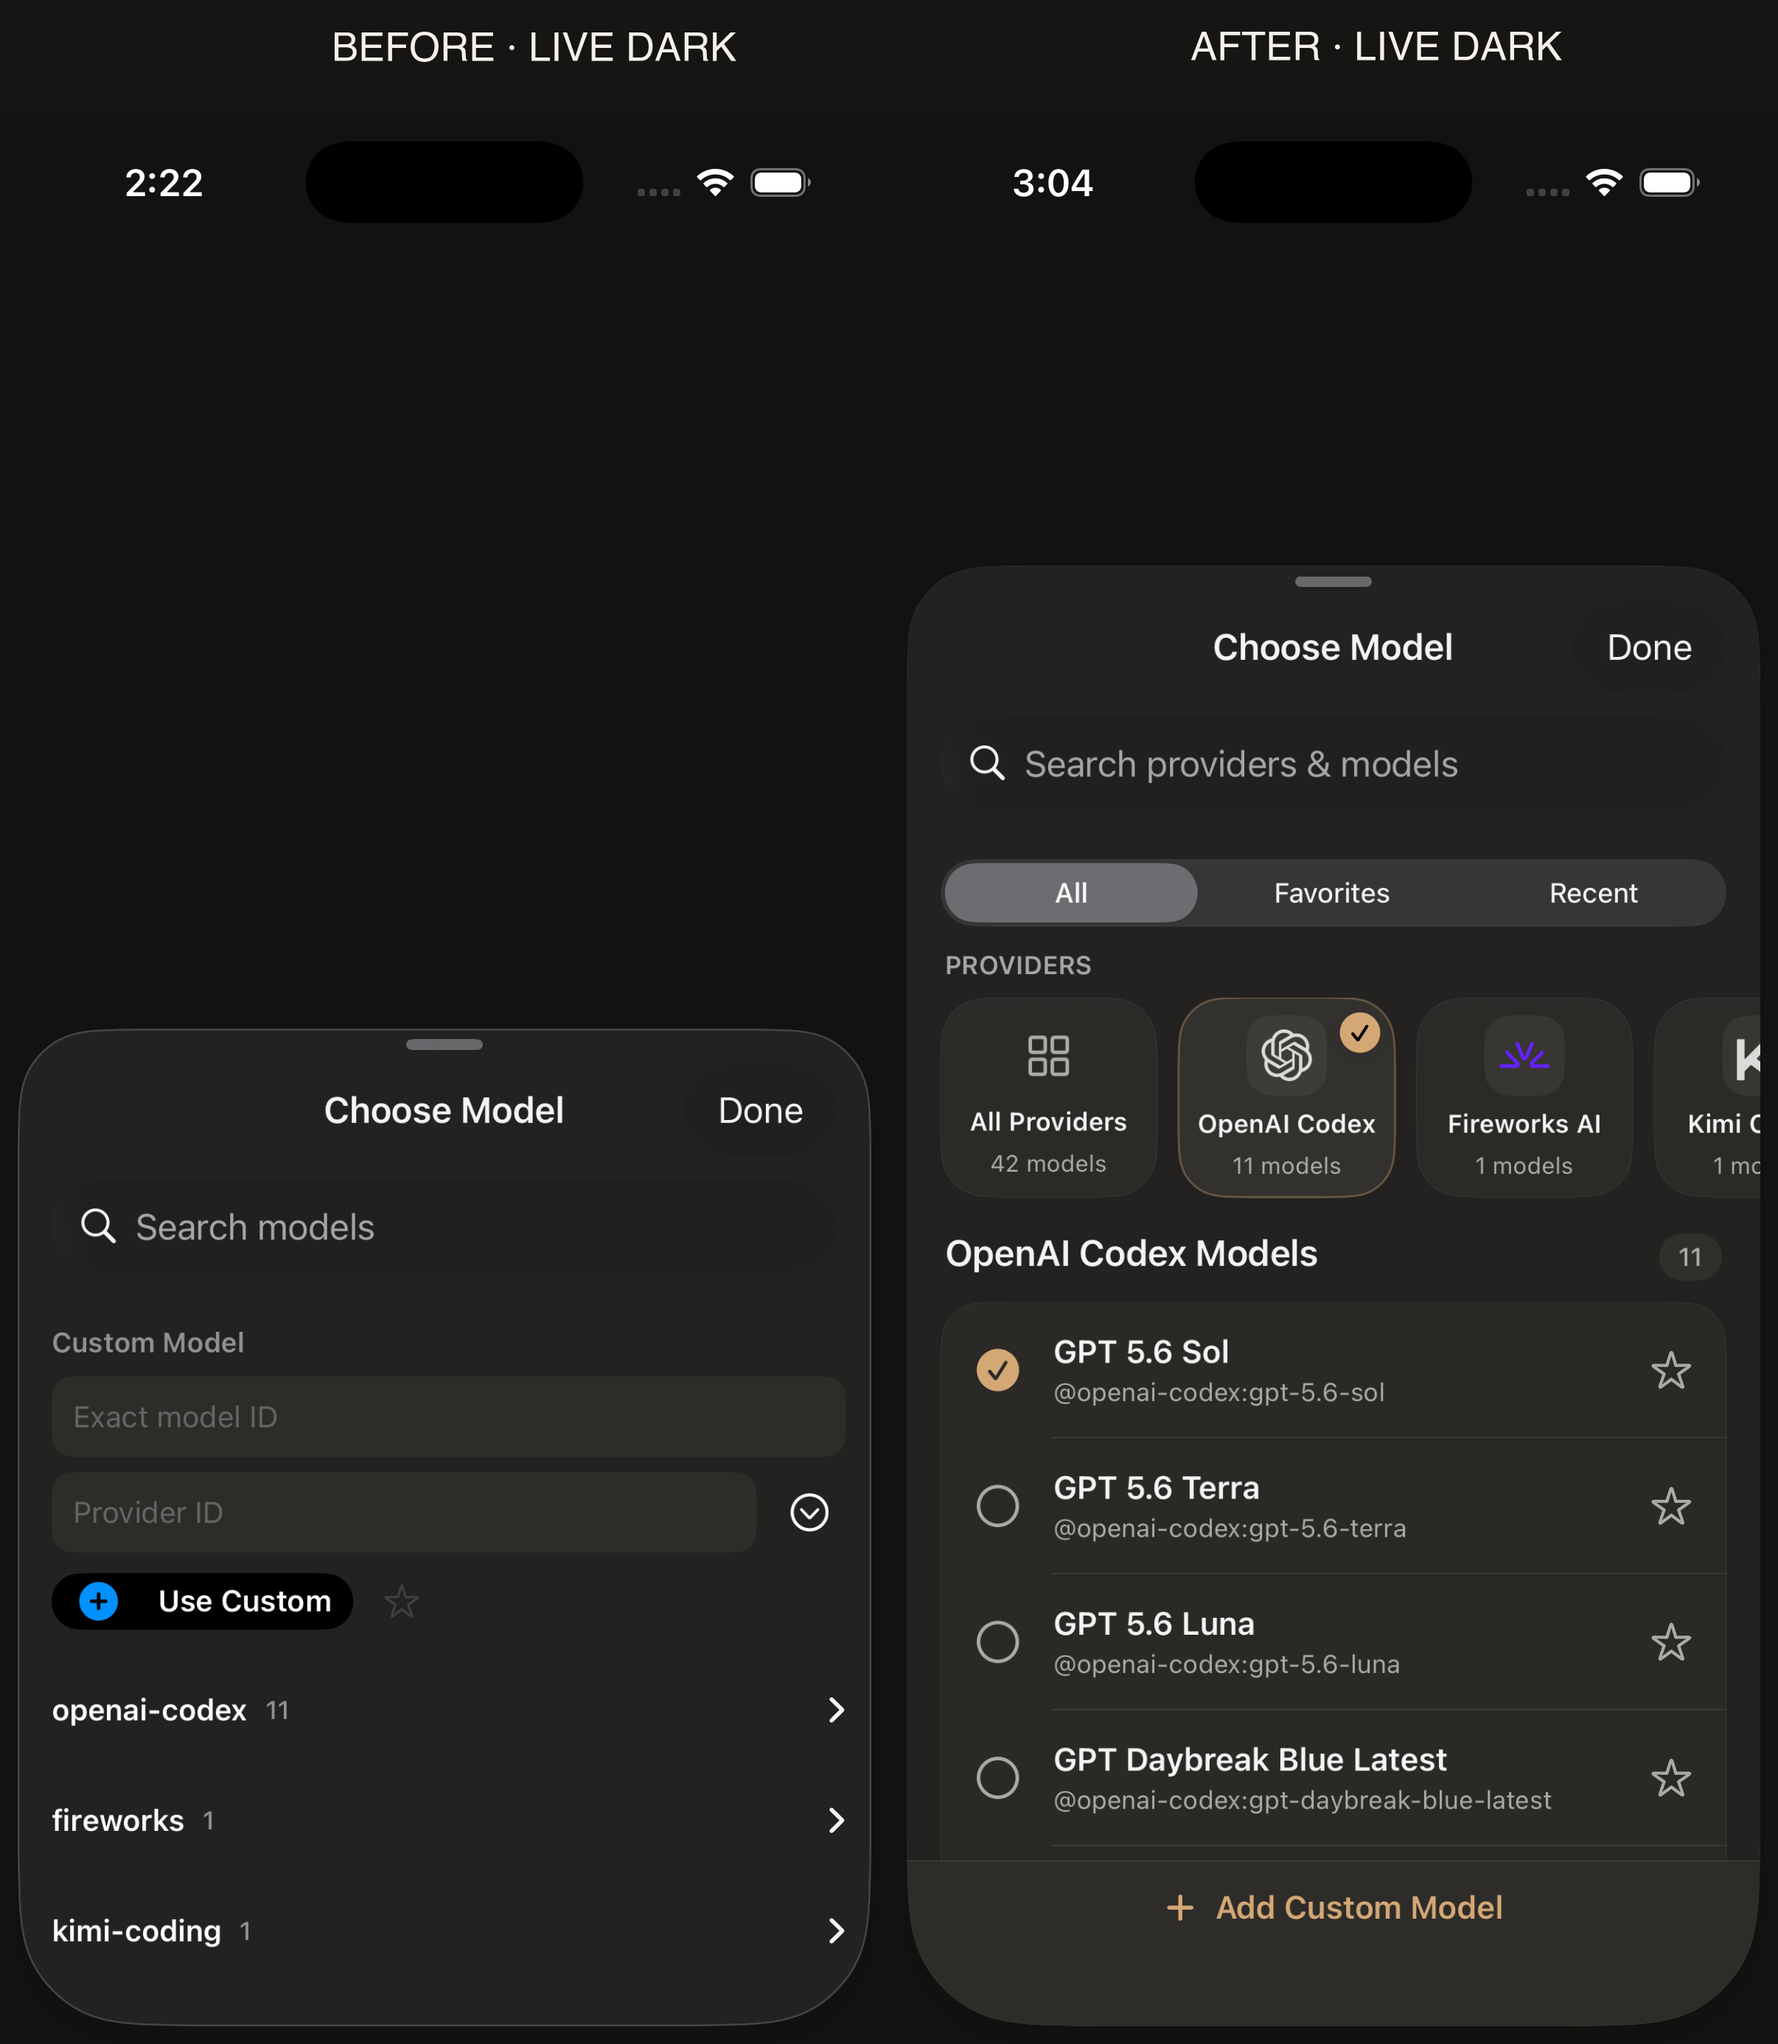
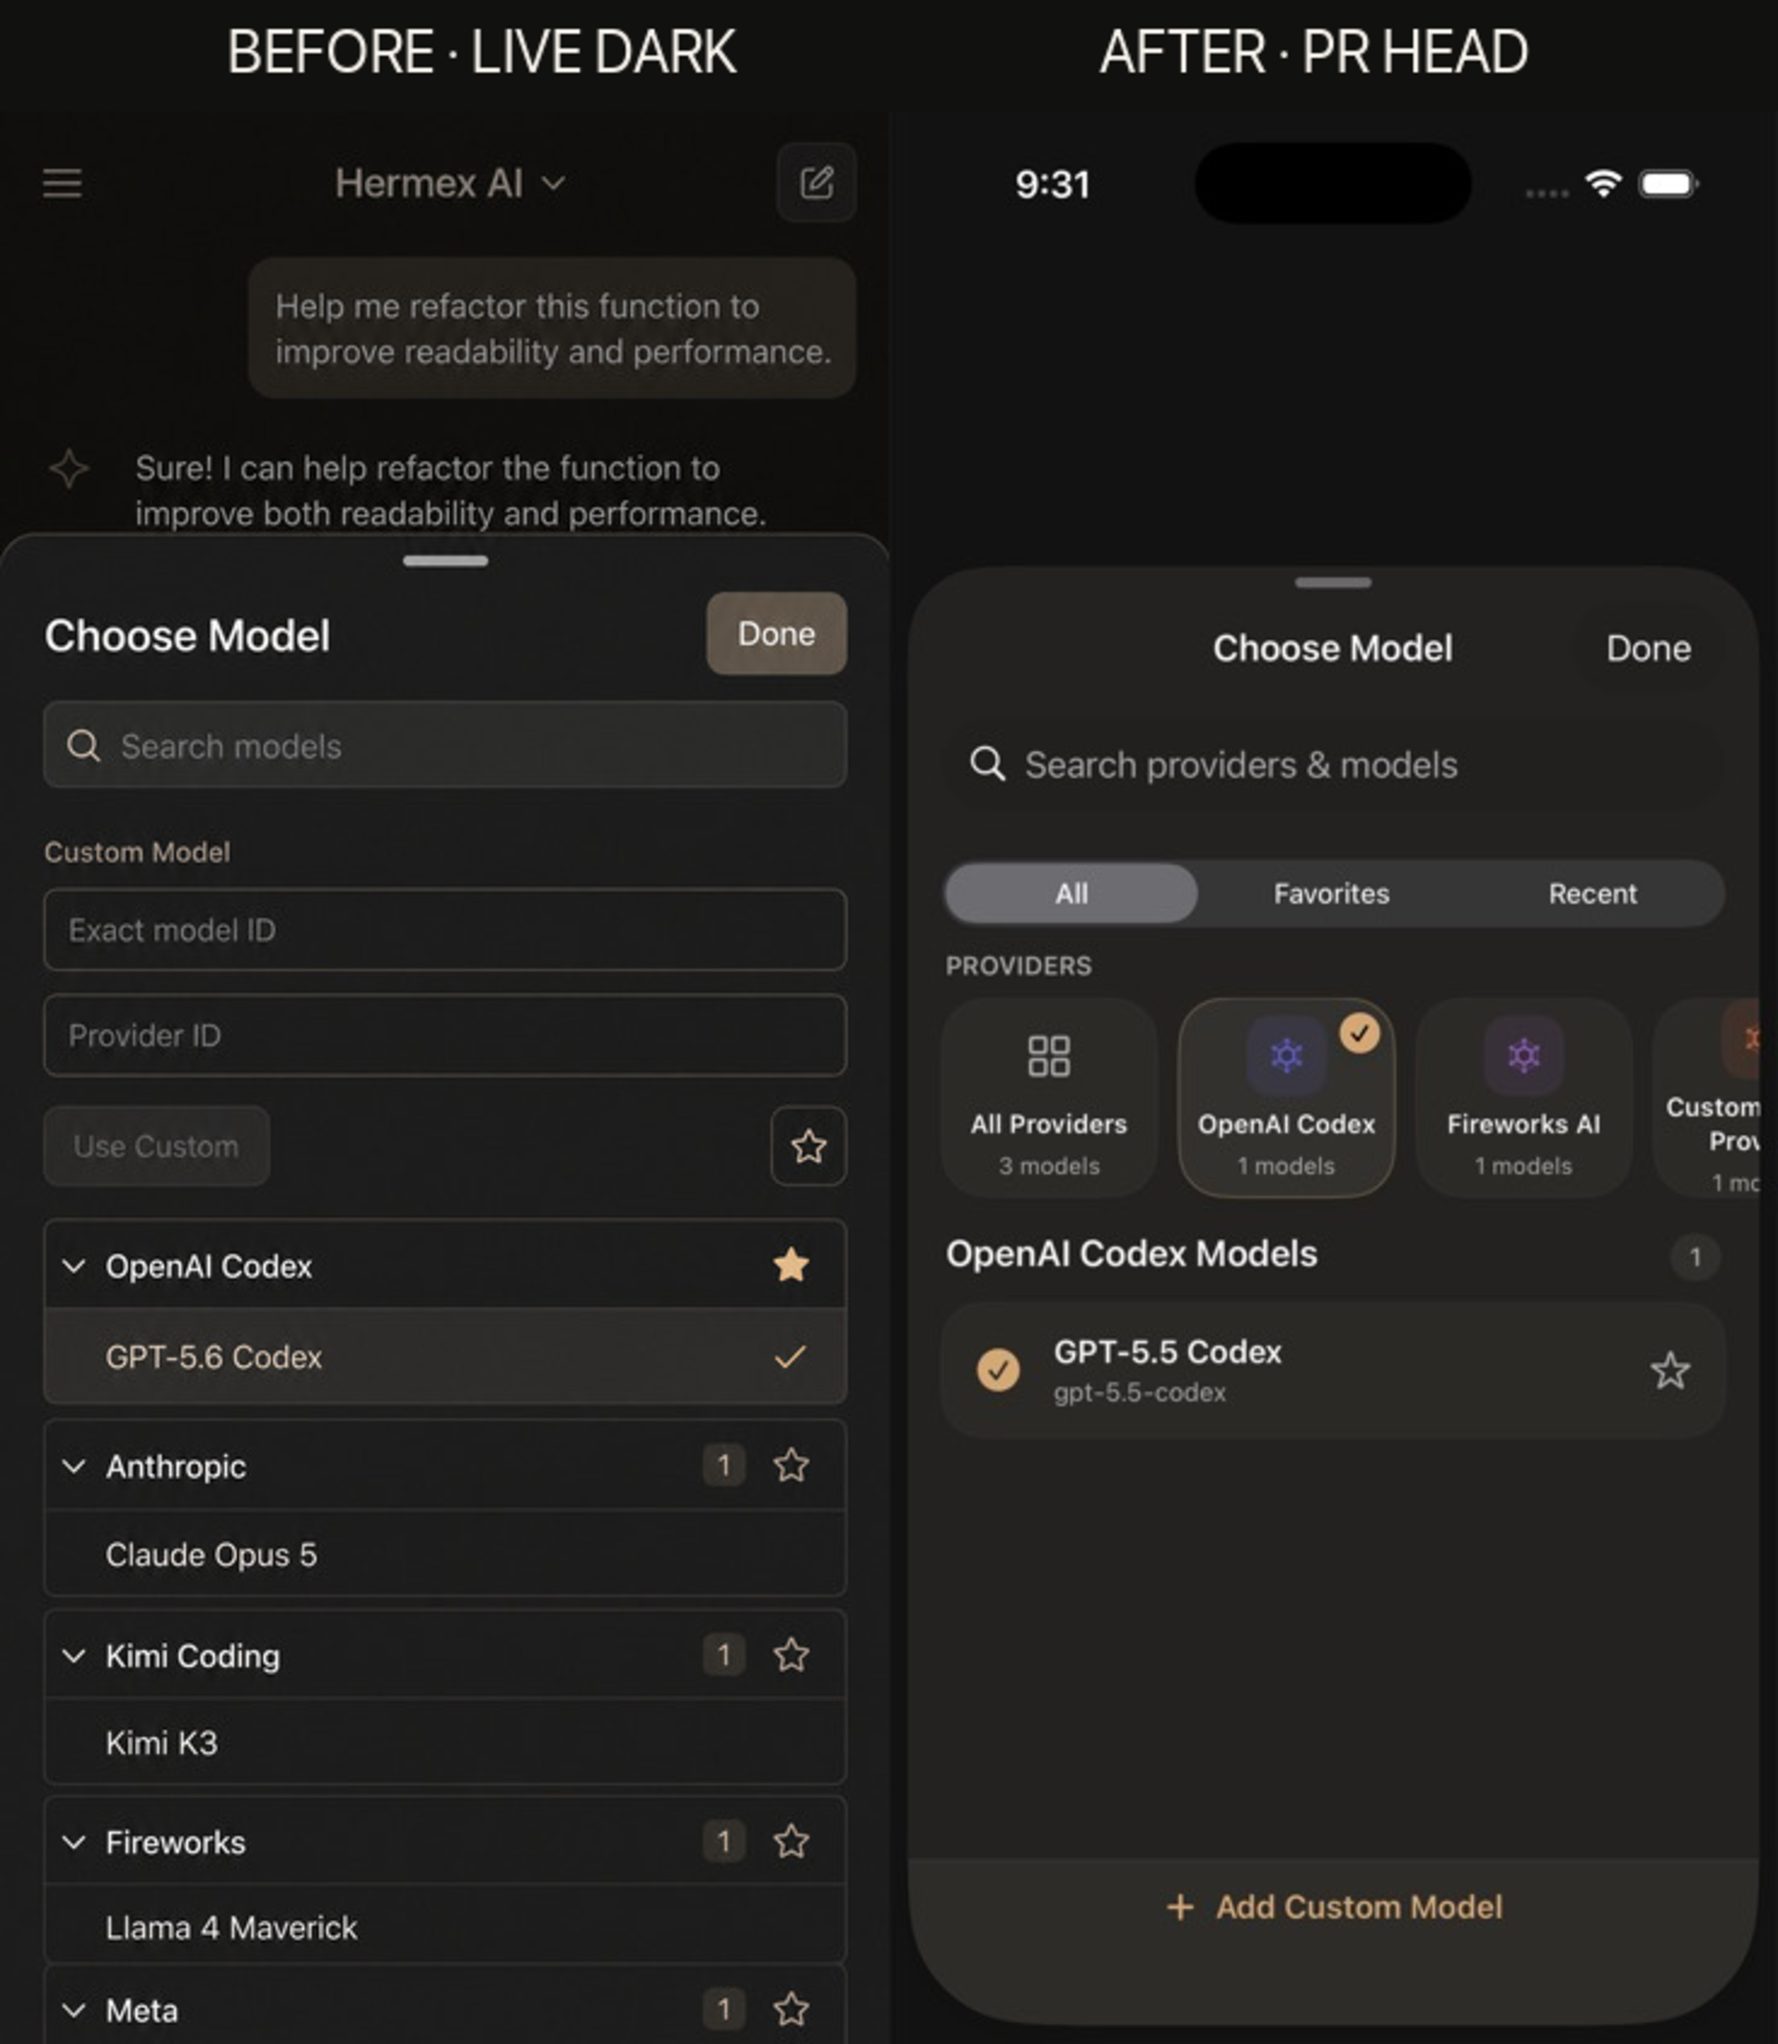
docs: refresh model picker visual evidence

diff --git a/docs/design/model-provider-picker-adversarial-review.md b/docs/design/model-provider-picker-adversarial-review.md
@@ -30,8 +30,9 @@ is the acceptance artifact.
   `ChatPalette` semantic roles. The bronze state color was chosen specifically to
   match the reference restraint without coupling this control to the user-selectable
   header color.
-- OpenAI, Fireworks, and Kimi produce distinct silhouettes in the first viewport.
-  The OpenAI/Codex mark is monochrome; the official Fireworks purple is preserved.
+- Providers without artwork that has verified redistribution provenance, including
+  OpenAI/Codex and Fireworks, use the deterministic Hermex fallback. Reviewed
+  Simple Icons marks such as Kimi retain distinct silhouettes.
 - The native long-press menu stays anchored to the provider card. VoiceOver has an
   explicit Edit action so context-menu discovery is not the only path.
 - The editor presents human-readable display name separately from read-only,
